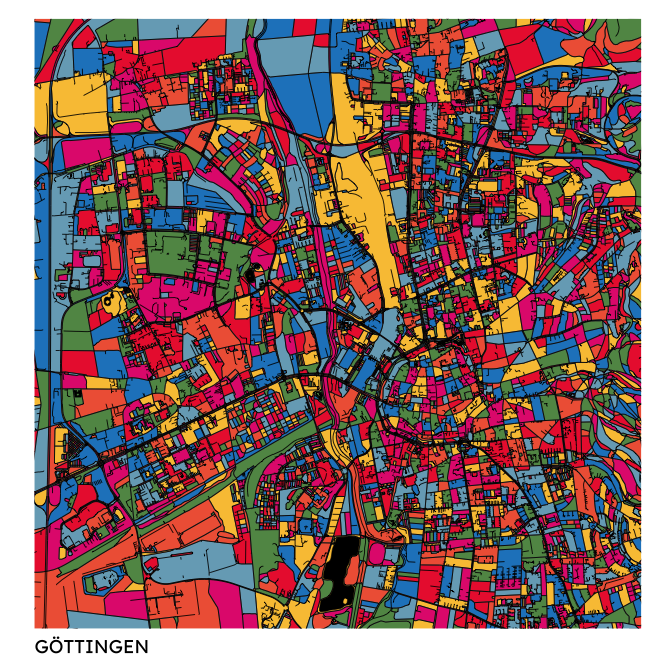
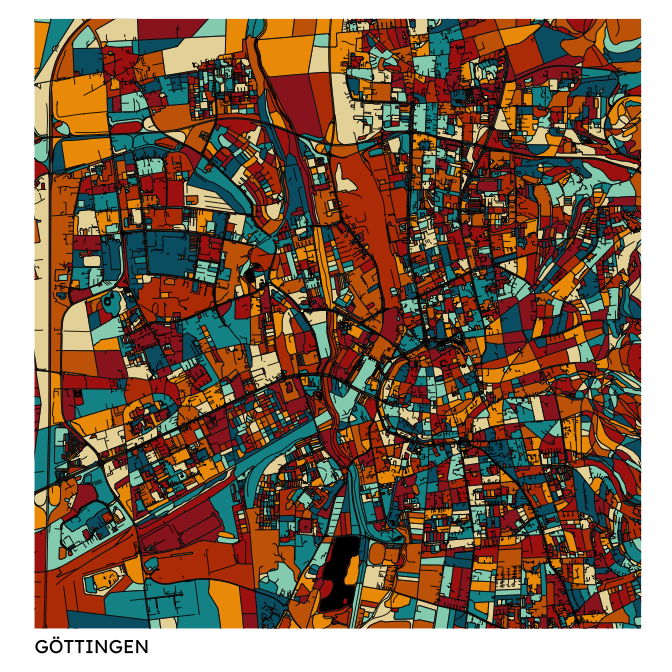
update docs

diff --git a/README.md b/README.md
@@ -36,7 +36,7 @@ edge_buffer = c(0.12, 0.08)
 ## Create a kARTe using a custom bounding box
 create_kARTe(location = "Leipzig",
              edge_buffer = edge_buffer,
-             color_palette = "original",
+             color_palette = "blend",
              color_water = "black",
              roads_linewidth = 0.3,
              river_linewidth = 0.3,
@@ -72,7 +72,7 @@ edge_buffer = c(0.01, 0.005)
 ## Create a kARTe using a custom bounding box
 create_kARTe(bbox = bbox,
              edge_buffer = edge_buffer,
-             color_palette = "original",
+             color_palette = "blend",
              color_water = "black",
              roads_linewidth = 0.3,
              river_linewidth = 0.3,
